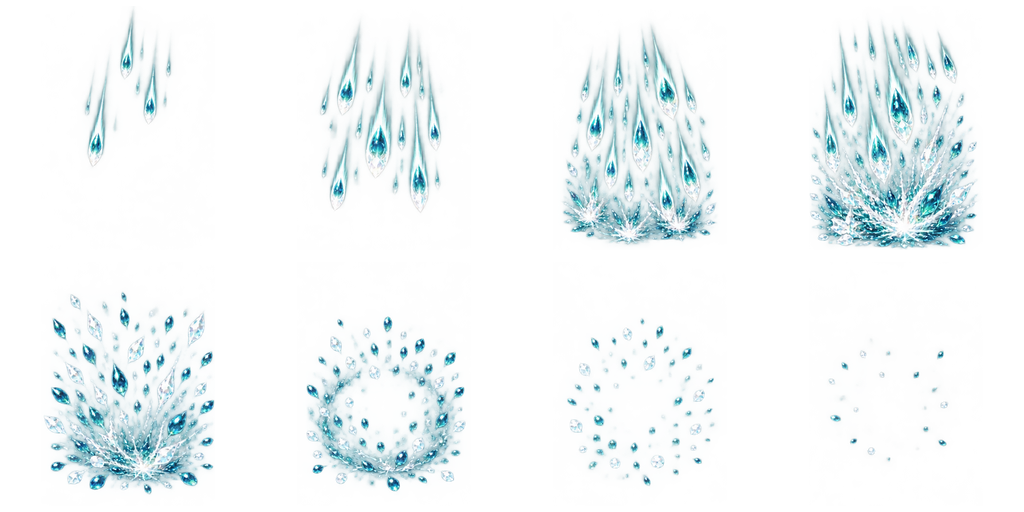
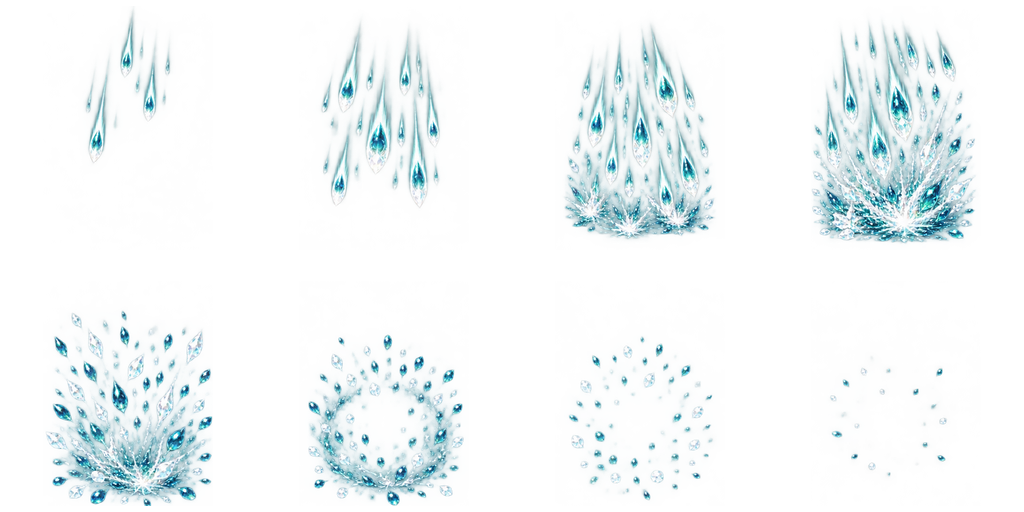
Harita 2 A6-A9 efektleri bağlandı: Drowned Knight, Brine Maiden, Reaver Archer, Reef Wrecker
- MOB_VFX_SPECS: rusted_blade (melee), shield_of_brine ve tidal_mend (ally, zemin), lament_of_salt (hedefe yağan kristal), pitch_arrow (uçan ok), hook (zincirli kanca fırlatma), lantern_flash (sıranın her hücresinde, göğüs hizasında); hepsi hız 1.35 + 5 kat ara kare
- hook sheet'i aynalandı: kanca hedefe, zincir atana baksın (sheet ters yönde çizilmişti)
- lament_of_salt kare 4-7 tabanı kare 3 ile aynı çizgiye indirildi (alt sıra ~20 px yukarıdaydı)
- el yapımı test paneli yedekleri artOf sahiplerinden

diff --git a/src/game/mob-vfx.ts b/src/game/mob-vfx.ts
@@ -152,7 +152,7 @@ export const MOB_VFX_SPECS: Readonly<Record<string, MobVfxSpec>> = {
   fall_of_kings_bridge: { mob: 'bridge_warden', mode: 'center', at: 'ground', impact: 3, size: 520, hex: '#ff5a1a' },
   // Harita 2 (The Drowned Reach; content-designer 2026-10-25, sheet'ler art-pipeline 7b399db). Ömer: yalnız BU efektler yüksek FPS oynar
   // (data/battle-layout.json > animation.mobVfx.skills: speed 1.35 + 5 kat ara kare); Harita 1 hızları aynı. Drowned Knight, Brine Maiden,
-  // Reef Wrecker skill'leri sheet gelene kadar ödünç (artOf) efektte; Reaver Archer Fire Volley kendi sheet'inde (artOf yalnız yedek).
+  // Drowned Knight, Brine Maiden, Reaver Archer, Reef Wrecker skill'leri kendi sheet'lerinde (art-pipeline 8fecb02, 272c464; artOf yalnız yedek).
   cutlass: { mob: 'corsair_cutlass', mode: 'melee', at: 'hit', impact: 3, size: 230 },
   rake: { mob: 'corsair_cutlass', mode: 'melee', at: 'hit', impact: 3, size: 240 },
   sling_stone: { mob: 'corsair_slinger', mode: 'bolt', at: 'hit', impact: 3, size: 220, hex: '#d9c9a3' }, // 0-2 taşın uçuşu (tune.travel)
@@ -164,6 +164,13 @@ export const MOB_VFX_SPECS: Readonly<Record<string, MobVfxSpec>> = {
   lament: { mob: 'siren', mode: 'bolt', at: 'hit', impact: 3, size: 230, hex: '#7fb8c8' },
   chorus: { mob: 'siren', mode: 'cells', at: 'ground', impact: 3, size: 220, hex: '#5fa8c8' },
   fire_volley: { mob: 'reaver_archer', mode: 'cells', at: 'ground', impact: 2, size: 220, hex: '#ff7a1a' }, // 0-1 oklar iner, 2 saplanır (vuruş), 3-4 alev, 5-7 kor; her hücreye
+  pitch_arrow: { mob: 'reaver_archer', mode: 'bolt', at: 'hit', impact: 3, size: 220, hex: '#ff7a1a' }, // 0-2 ok uçuşu (tune.fly), 3 zifti patlar
+  rusted_blade: { mob: 'drowned_knight', mode: 'melee', at: 'hit', impact: 3, size: 240 },
+  shield_of_brine: { mob: 'drowned_knight', mode: 'ally', at: 'ground', impact: 3, size: 240, hex: '#5fd8c0' },
+  lament_of_salt: { mob: 'brine_maiden', mode: 'bolt', at: 'ground', impact: 3, size: 230, hex: '#bfe8f0' }, // tuz kristalleri hedefin üstüne yağar
+  tidal_mend: { mob: 'brine_maiden', mode: 'ally', at: 'ground', impact: 3, size: 240, hex: '#5fd8c0' },
+  hook: { mob: 'reef_wrecker', mode: 'bolt', at: 'hit', impact: 3, size: 230, hex: '#e0b04a' }, // kanca zinciriyle fırlatılır (tune.fly + throw)
+  lantern_flash: { mob: 'reef_wrecker', mode: 'cells', at: 'ground', impact: 3, size: 220, hex: '#fff0b0' }, // sıranın her hücresinde göz alan parlama
 };
 
 type Pt = { x: number; y: number };

diff --git a/src/game/mob-vfx-hand.ts b/src/game/mob-vfx-hand.ts
@@ -48,6 +48,13 @@ const DROWNED_REACH_STANDIN: Readonly<Record<string, string>> = {
   lament: 'ravens_peck',
   chorus: 'requiem',
   fire_volley: 'burn_the_ground',
+  pitch_arrow: 'poachers_shot',
+  rusted_blade: 'penance_flail',
+  shield_of_brine: 'shield_wall',
+  lament_of_salt: 'bone_rite',
+  tidal_mend: 'marsh_glow',
+  hook: 'drag_under',
+  lantern_flash: 'sand_in_the_eyes',
 };
 
 const BASE: Readonly<Record<string, MobHandVfx>> = {
